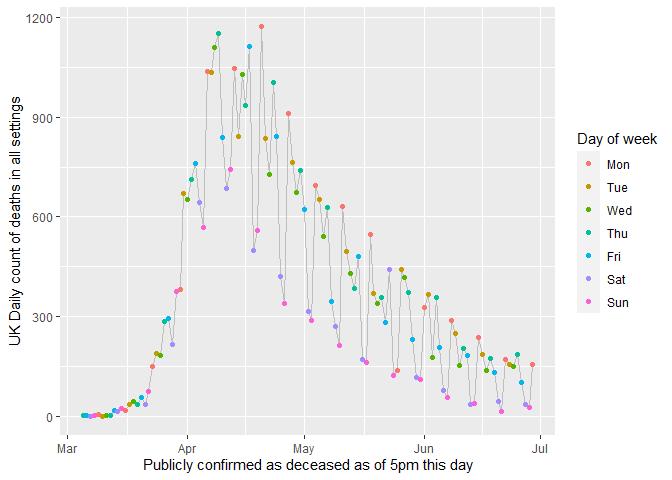
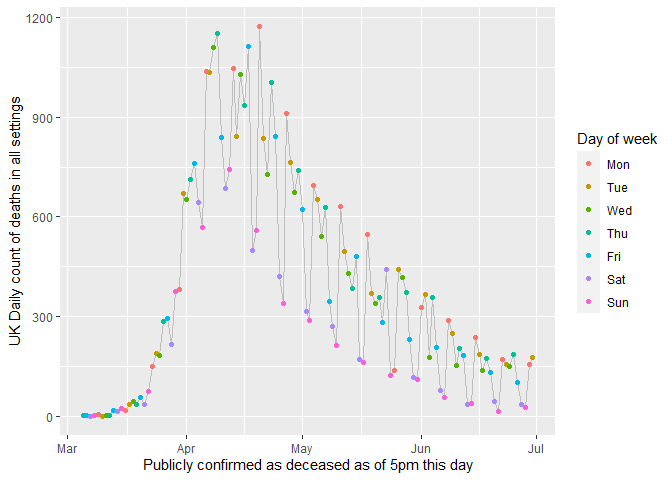
Reran analyses

diff --git a/README.md b/README.md
@@ -2,7 +2,7 @@ Using ggplot2 to visualise Covid-19 deaths the UK
 ================
 Andi (<almost@gmail.com>,
 @[inductivestep](https://twitter.com/InductiveStep))
-30 June 2020
+01 July 2020
 
 This script shows how to use ggplot2, with the help of some tidyverse
 tools, to plot UK Covid-19 deaths data.
@@ -136,7 +136,7 @@ death_week <- death2 %>%
 Now plot, with a generalized additive model (GAM) smoother, selecting
 only weeks where there were data for all seven days.
 
-Only the first week is affected:
+These week(s) are excluded:
 
 ``` r
 death_week %>%
@@ -148,7 +148,7 @@ death_week %>%
     ##   Week       `Weekly Deaths`  Days
     ##   <date>               <dbl> <int>
     ## 1 2020-03-02               3     4
-    ## 2 2020-06-29             155     1
+    ## 2 2020-06-29             331     2
 
 ``` r
 death_week %>%
